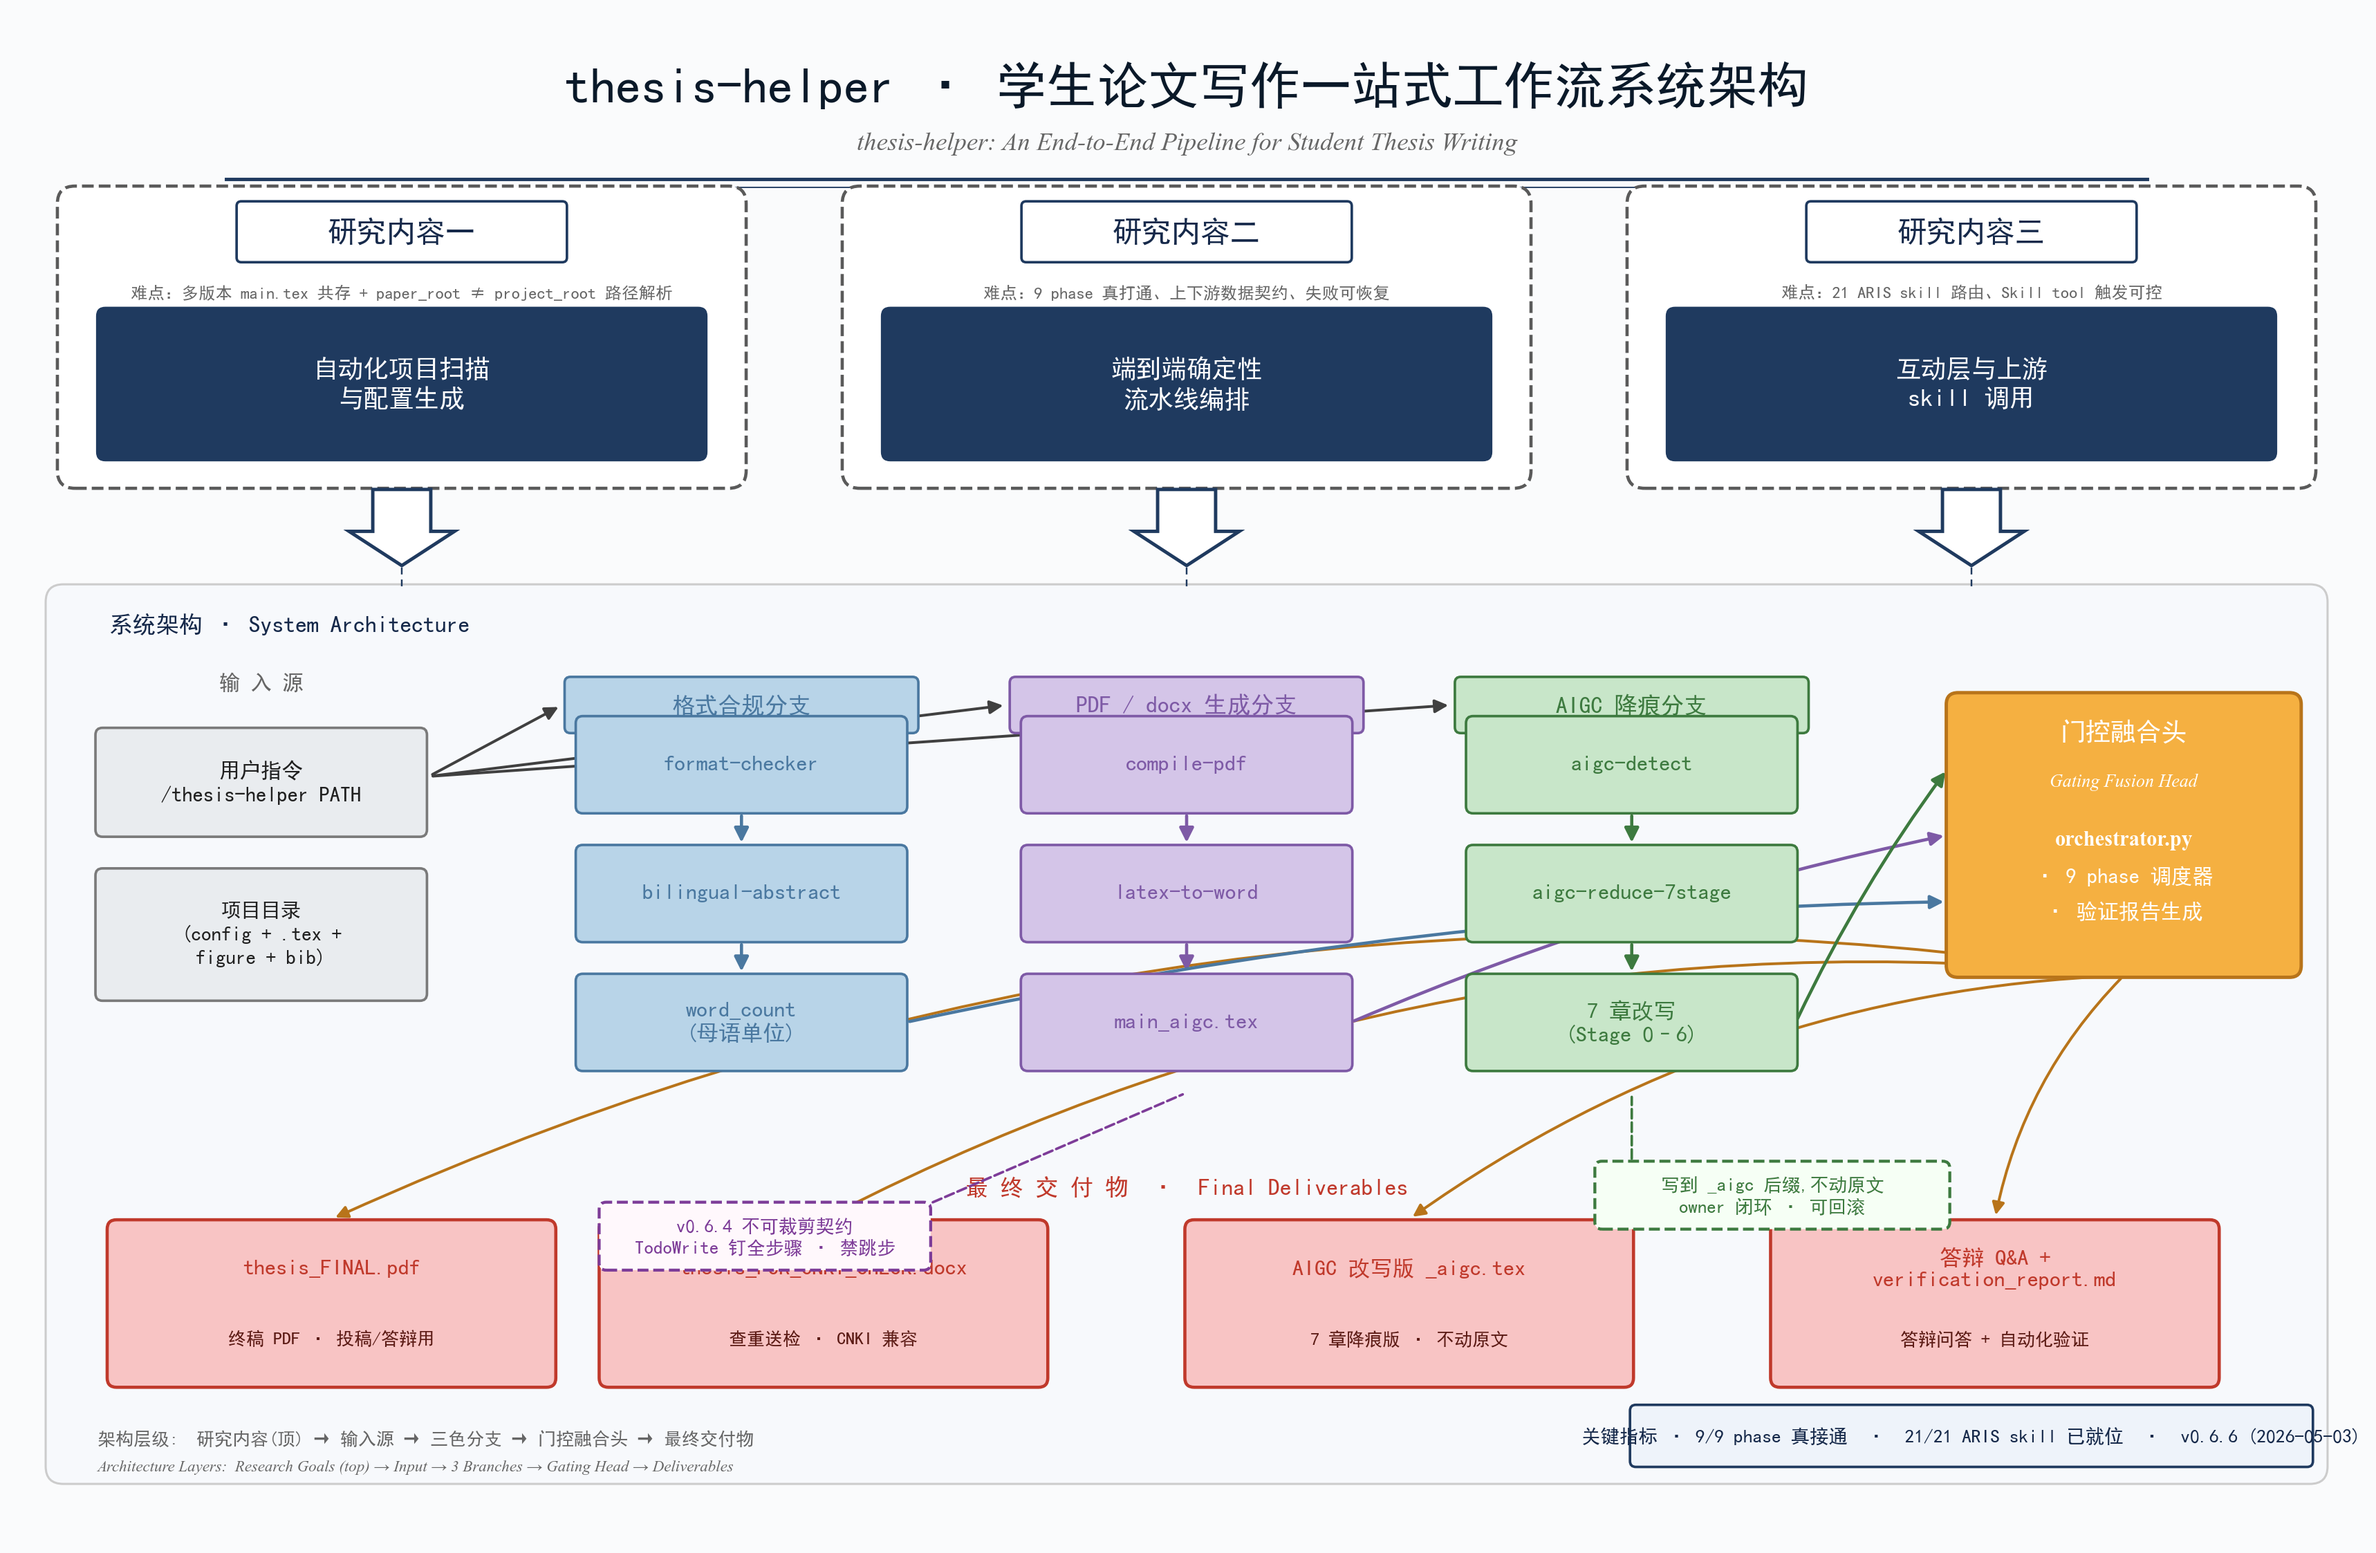
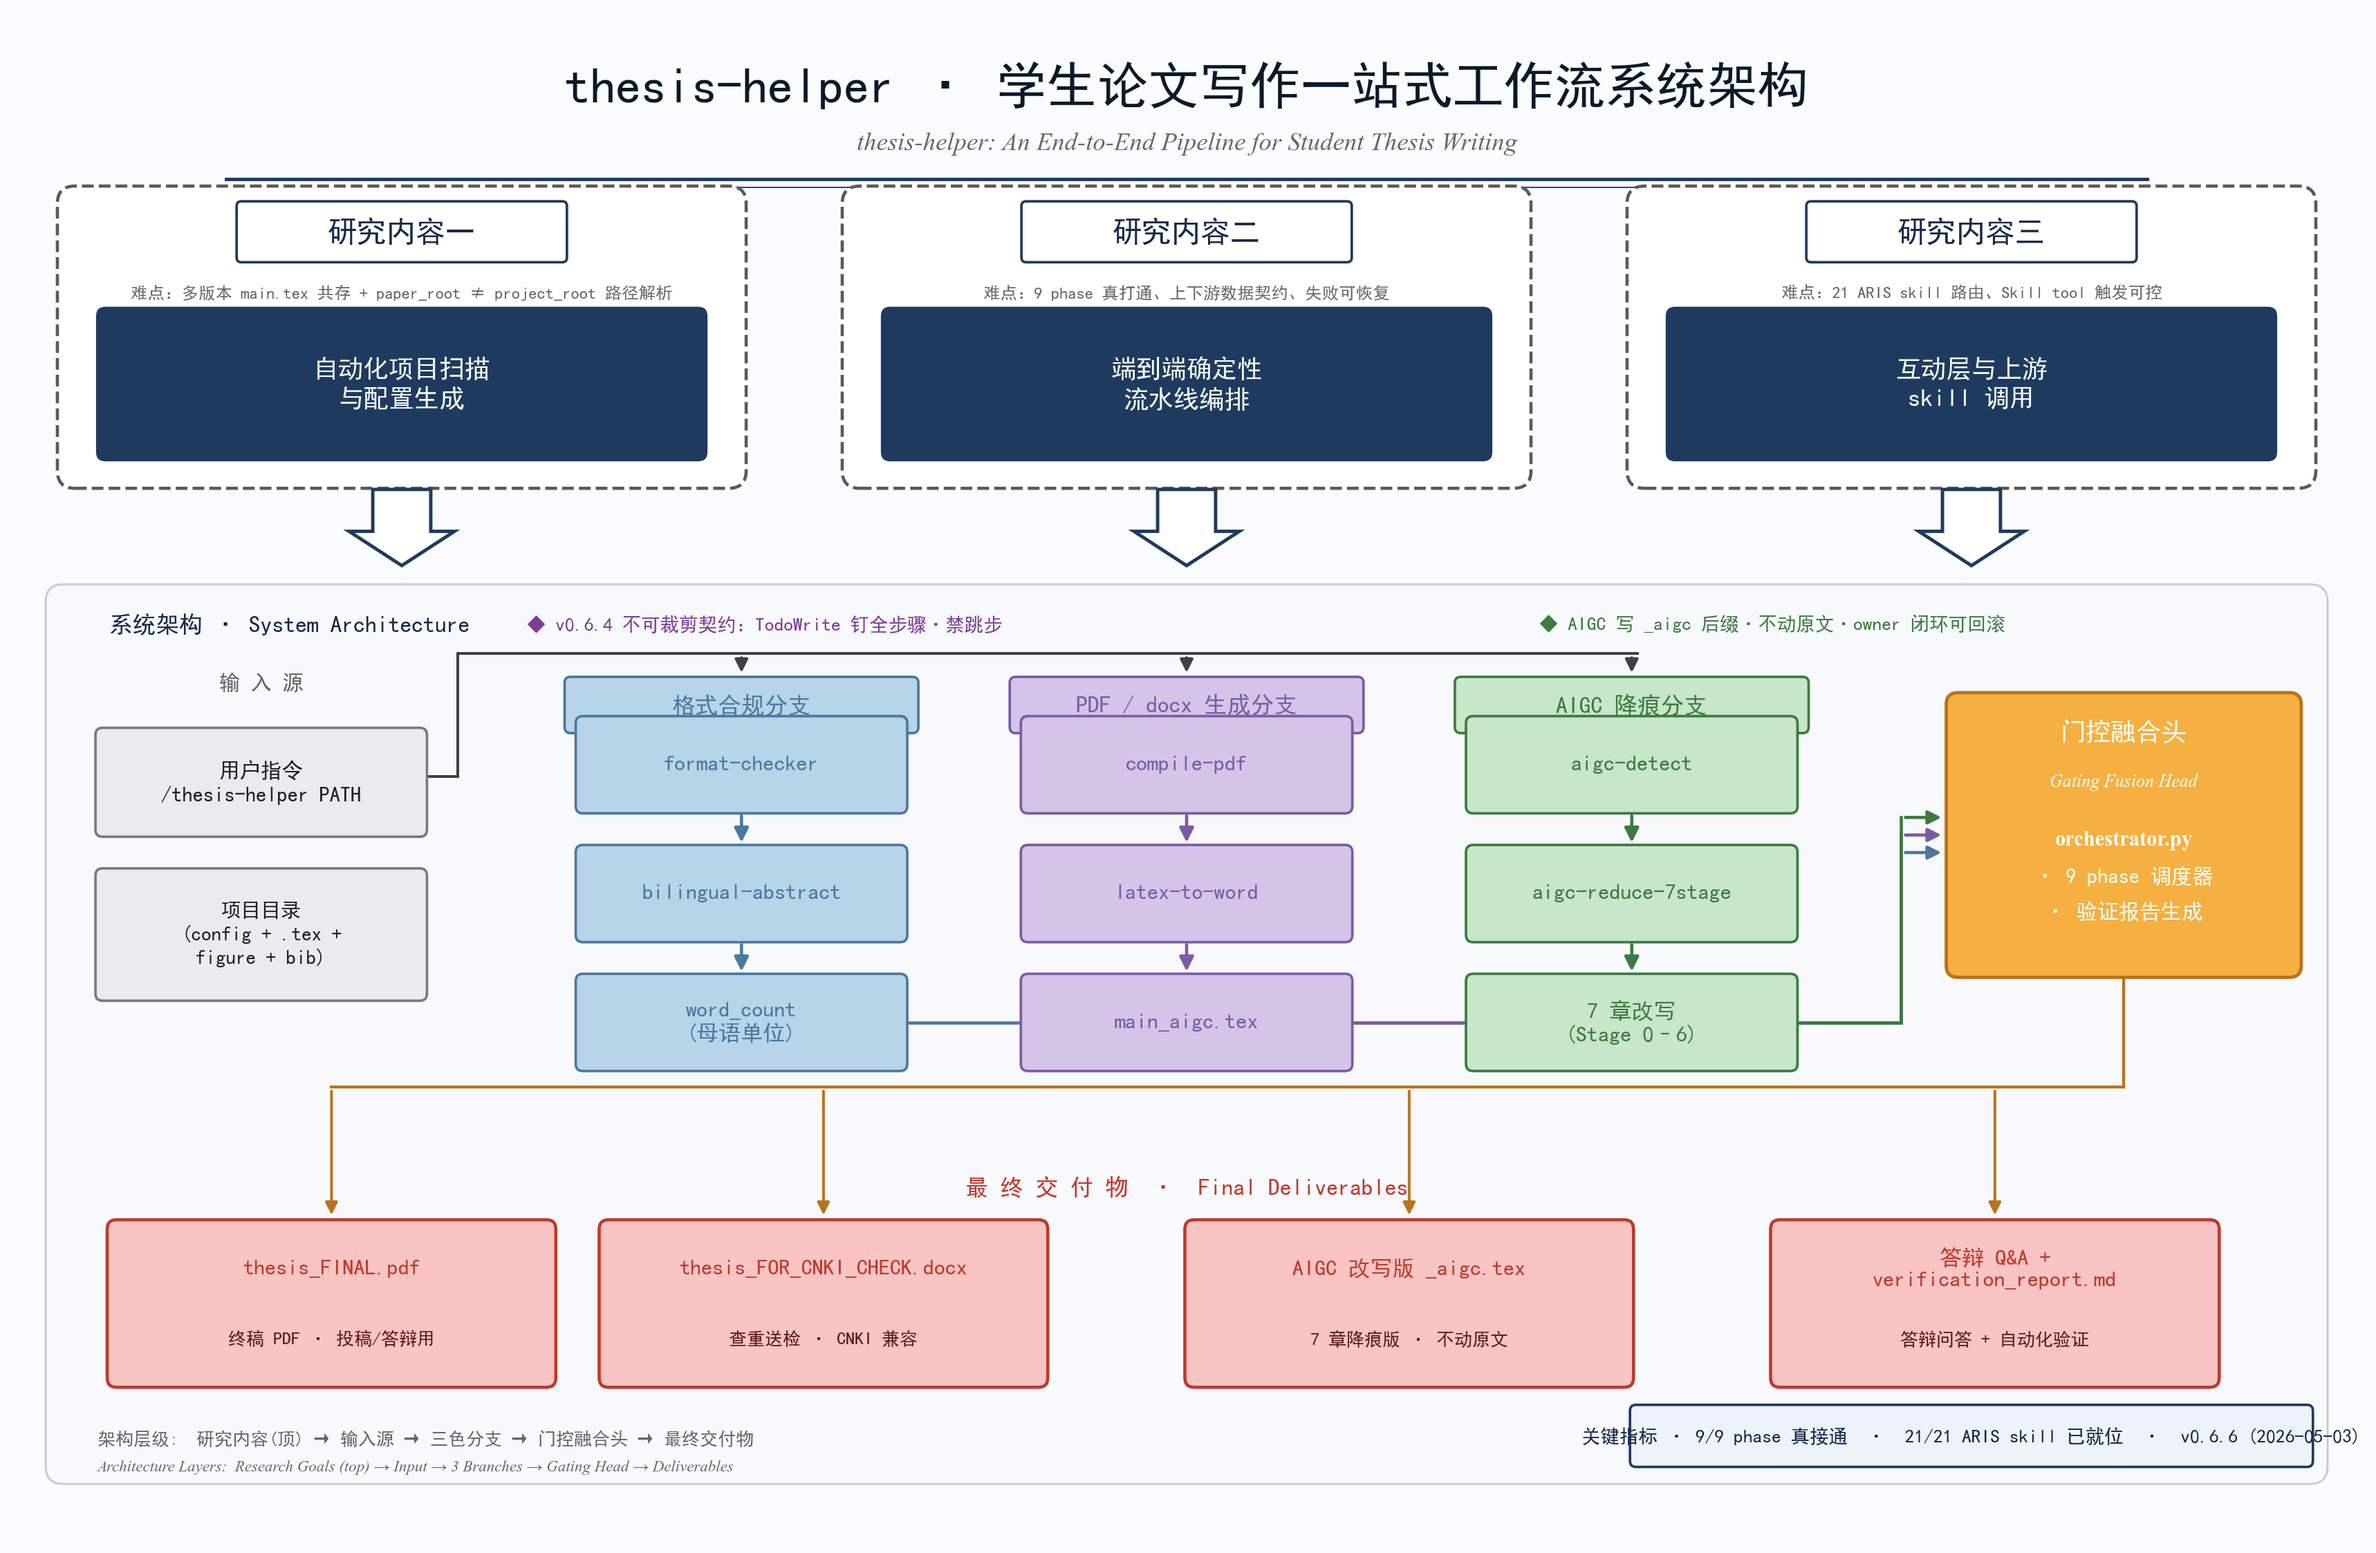
fix: v0.6.8 — Variant D 走线大改 (Manhattan + 总线 + 注释带)
用户反馈 v0.6.7 "线错综复杂、被框压住、线交缠"，本次重写 4 处 routing：

1. 输入源 → 三分支：Manhattan 干线
   旧：3 条对角斜线交叉
   新：输入右出 → 水平干线 y=75.5 → 3 个垂直下落带箭头到分支顶部

2. 三分支 → 门控融合头：staggered 入口 + elbow
   旧：3 条对角弧线斜插入门控中心
   新：每分支右出 → 共同汇聚到 conv_x = gate_left - 4 → 不同 Y 偏移
       (蓝-1.5 / 紫 0 / 绿+1.5) 进门控，零交叉

3. 门控 → 4 输出：总线式
   旧：4 条对角弧线 (rad=0.15) 从门控散到 4 输出，互相打架
   新：门控下沉 → 水平总线 y=(gate_bot+out_top)/2+1 → 4 垂直下落
       带箭头到各输出顶部

4. Callout 注解：去掉浮动框 + 引线
   旧：2 个 dashed 框 + 2 条引线，引线穿过分支/总线，框压顶部
   新：去掉框，改成顶部 hairline 注释带 (y=78)，无引线零压块
   - "◆ v0.6.4 不可裁剪契约: TodoWrite 钉全步骤·禁跳步"
   - "◆ AIGC 写 _aigc 后缀·不动原文·owner 闭环可回滚"

5. 移除研究内容→底部架构的虚线 (旧版穿过 input/branches 区压字)

diff --git a/Paper_Writing/thesis-helper/diagrams/variant-D-render.py b/Paper_Writing/thesis-helper/diagrams/variant-D-render.py
@@ -267,19 +267,27 @@ for cx, fc, ec, zh, en, steps in branch_specs:
         arrowstyle='-|>', mutation_scale=14,
         color=ec, linewidth=1.5, zorder=3))
 
-# ---------- 3.3 输入源 -> 各分支顶部 ----------
+# ---------- 3.3 输入源 -> 各分支顶部 (Manhattan 走线，统一干线 + 三分支) ----------
 input_right_x = input_x + input_w
+trunk_y = 75.5  # 输入与分支顶之间的水平干线高度
+trunk_x_start = input_right_x + 0.3
+trunk_x_end = branch_specs[-1][0] + 0.5  # 干线右端到最右分支
+# 输入块右侧 → 干线起点(短水平段)
+ax.add_line(Line2D([trunk_x_start, trunk_x_start + 2.5], [65, 65],
+                   color='#404040', linewidth=1.3, zorder=2))
+# 上提到 trunk_y
+ax.add_line(Line2D([trunk_x_start + 2.5, trunk_x_start + 2.5], [65, trunk_y],
+                   color='#404040', linewidth=1.3, zorder=2))
+# 主干水平线
+ax.add_line(Line2D([trunk_x_start + 2.5, trunk_x_end], [trunk_y, trunk_y],
+                   color='#404040', linewidth=1.3, zorder=2))
+# 三个分支垂直下落 + 箭头
 for cx, _, ec, *_ in branch_specs:
-    target_x = cx - step_w/2 - 1
-    target_y = branch_top - 0.9
-    # 从输入块右侧引出, 拐弯到分支顶部
     ax.add_patch(FancyArrowPatch(
-        (input_right_x + 0.3, 65),
-        (target_x - 0.3, target_y),
+        (cx, trunk_y), (cx, branch_top + 1.5),
         arrowstyle='-|>', mutation_scale=13,
         color='#404040', linewidth=1.3,
-        connectionstyle="arc3,rad=0.0",
-        zorder=2))
+        connectionstyle="arc3,rad=0.0", zorder=2))
 
 # ---------- 3.4 右侧门控融合头 (橙) ----------
 gate_x = 165
@@ -318,15 +326,30 @@ for i, ln in enumerate(gate_lines):
             color='white', family='SimHei' if i > 0 else 'Times New Roman',
             zorder=5)
 
-# 三分支末端 -> 门控融合头
+# 三分支末端 -> 门控融合头 (Manhattan: 各分支末端右出 → 共同下沉到 gate_left → 进 gate)
+gate_left_x = gate_x  # 门控左边沿
+# 每个分支右出，水平到 conv_x（门控左边沿前的汇聚点），再垂直对齐进入门控
+conv_x = gate_left_x - 4
+# 为避免三条横线重叠，使用 staggered Y 出口
+exit_offsets = {62: -1.5, 100: 0, 138: 1.5}  # 蓝下/紫中/绿上 进入 gate 的 Y 偏移
 for cx, _, ec, *_ in branch_specs:
+    branch_right_x = cx + step_w/2
+    # 末 step 中点 Y
+    src_y = step_ys[-1] + step_h/2
+    # 进入门控的 Y 位置（中心 ± offset）
+    target_y = gate_y + gate_h/2 + exit_offsets[cx]
+    # 横向到 conv_x
+    ax.add_line(Line2D([branch_right_x + 0.3, conv_x], [src_y, src_y],
+                       color=ec, linewidth=1.5, zorder=3))
+    # 垂直到 target_y
+    ax.add_line(Line2D([conv_x, conv_x], [src_y, target_y],
+                       color=ec, linewidth=1.5, zorder=3))
+    # 横向带箭头进入 gate
     ax.add_patch(FancyArrowPatch(
-        (cx + step_w/2, step_ys[-1] + step_h/2),
-        (gate_x, gate_y + gate_h/2 + (cx - 100) * 0.15),
+        (conv_x, target_y), (gate_left_x - 0.2, target_y),
         arrowstyle='-|>', mutation_scale=13,
         color=ec, linewidth=1.5,
-        connectionstyle="arc3,rad=-0.05",
-        zorder=3))
+        connectionstyle="arc3,rad=0", zorder=3))
 
 # ---------- 3.5 最终输出 (4 个粉/红块, 横排底部) ----------
 out_y = 13
@@ -369,61 +392,45 @@ for x, t, s in zip(out_xs, out_titles, out_subs):
             fontsize=8.5, color='#5b1a14',
             family='SimHei', zorder=5)
 
-# 门控融合头 -> 最终输出 (汇聚式 4 条)
+# 门控融合头 -> 最终输出 (Manhattan 总线式: gate 下沉 → 横向干线 → 4 条垂直分支)
 gate_bottom_x = gate_x + gate_w/2
 gate_bottom_y = gate_y
-for x in out_xs:
-    target_x = x + out_w/2
-    target_y = out_y + out_h
+output_top_y = out_y + out_h
+bus_y = (gate_bottom_y + output_top_y) / 2 + 1  # 主总线水平位置（在 gate 下、输出上）
+
+# Step 1: gate 中心向下到总线
+ax.add_line(Line2D([gate_bottom_x, gate_bottom_x], [gate_bottom_y - 0.3, bus_y],
+                   color=ORANGE_DARK, linewidth=1.4, zorder=2))
+# Step 2: 总线水平段（覆盖最左到最右输出中心）
+out_centers = [x + out_w/2 for x in out_xs]
+bus_x_min = min(min(out_centers), gate_bottom_x)
+bus_x_max = max(max(out_centers), gate_bottom_x)
+ax.add_line(Line2D([bus_x_min, bus_x_max], [bus_y, bus_y],
+                   color=ORANGE_DARK, linewidth=1.4, zorder=2))
+# Step 3: 4 条垂直分支带箭头到各输出顶部
+for cx_out in out_centers:
     ax.add_patch(FancyArrowPatch(
-        (gate_bottom_x, gate_bottom_y),
-        (target_x, target_y + 0.2),
+        (cx_out, bus_y), (cx_out, output_top_y + 0.2),
         arrowstyle='-|>', mutation_scale=12,
         color=ORANGE_DARK, linewidth=1.3,
-        connectionstyle="arc3,rad=0.15",
-        zorder=2))
+        connectionstyle="arc3,rad=0", zorder=2))
 
 # =====================================================================
 # 4. callout 虚线注解框
 # =====================================================================
-# callout #1: PDF/docx 分支 (中间紫色) 注解
-callout1 = FancyBboxPatch(
-    (50, 23.0), 28, 5.5,
-    boxstyle="round,pad=0.15,rounding_size=0.6",
-    linewidth=1.4, edgecolor=CALLOUT_EDGE,
-    facecolor='#fff8fc', linestyle='--', zorder=5)
-ax.add_patch(callout1)
-ax.text(64, 25.7,
-        'v0.6.4 不可裁剪契约\nTodoWrite 钉全步骤 · 禁跳步',
+# 注解策略 v2：去掉浮动 callout 框 + 引线（避免压块 + 走线乱）
+# 改成在底部架构区上方放一道 hairline 注释带，文字平铺，零引线
+note_y = 78
+ax.text(64, note_y,
+        '◆ v0.6.4 不可裁剪契约：TodoWrite 钉全步骤·禁跳步',
         ha='center', va='center',
-        fontsize=8.8, fontweight='bold',
-        color=CALLOUT_EDGE, family='SimHei',
-        linespacing=1.25, zorder=6)
-# 引线: callout -> PDF 分支底部
-ax.add_patch(FancyArrowPatch(
-    (78, 28.5), (100, 38),
-    arrowstyle='-', mutation_scale=10,
-    color=CALLOUT_EDGE, linewidth=1.2,
-    linestyle='--', zorder=5))
-
-# callout #2: AIGC 分支 (右绿) 注解
-callout2 = FancyBboxPatch(
-    (135, 26.5), 30, 5.5,
-    boxstyle="round,pad=0.15,rounding_size=0.6",
-    linewidth=1.4, edgecolor=GREEN_DARK,
-    facecolor='#f6fff5', linestyle='--', zorder=5)
-ax.add_patch(callout2)
-ax.text(150, 29.2,
-        '写到 _aigc 后缀,不动原文\nowner 闭环 · 可回滚',
+        fontsize=9, fontweight='bold',
+        color=CALLOUT_EDGE, family='SimHei', zorder=2)
+ax.text(150, note_y,
+        '◆ AIGC 写 _aigc 后缀·不动原文·owner 闭环可回滚',
         ha='center', va='center',
-        fontsize=8.8, fontweight='bold',
-        color=GREEN_DARK, family='SimHei',
-        linespacing=1.25, zorder=6)
-ax.add_patch(FancyArrowPatch(
-    (138, 32), (138, 38),
-    arrowstyle='-', mutation_scale=10,
-    color=GREEN_DARK, linewidth=1.2,
-    linestyle='--', zorder=5))
+        fontsize=9, fontweight='bold',
+        color=GREEN_DARK, family='SimHei', zorder=2)
 
 # =====================================================================
 # 5. 右下角性能指标
@@ -441,14 +448,10 @@ ax.text(167, 8.7,
         color=NAVY_DARK, family='SimHei', zorder=6)
 
 # =====================================================================
-# 6. 顶部 -> 底部架构 衔接 (可选: 三个研究内容块的箭头落在底部架构上沿)
+# 6. 顶部 -> 底部架构 衔接 (移除穿过架构区的虚线，避免压块)
 # =====================================================================
-# 把研究内容三块的"白箭头出口"再用一根细线引到底部架构区, 表示落地
-arch_top_y = 81
-for cx in research_centers:
-    ax.add_line(Line2D([cx, cx], [82.8, arch_top_y + 0.2],
-                       color=NAVY, linewidth=0.8,
-                       linestyle=(0, (4, 3)), zorder=1))
+# 旧版用 dashed 线把研究内容连到底部架构上沿，但线穿过 input/branch 区造成压字
+# v2 改：只在底部架构区上方画一道 hairline 横线作"层界"，不再穿入
 
 # =====================================================================
 # 7. 左下角图例 / 来源
